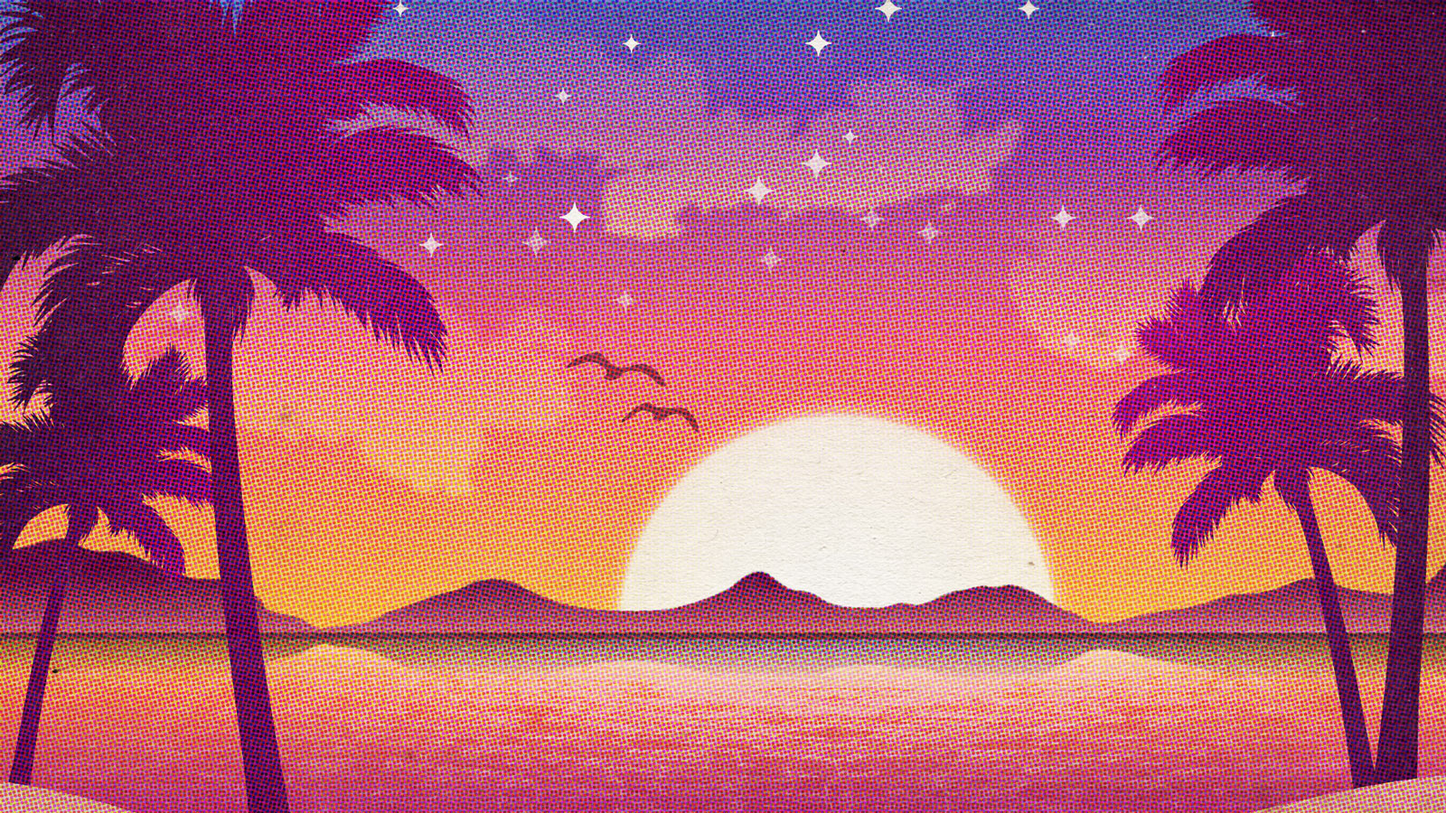
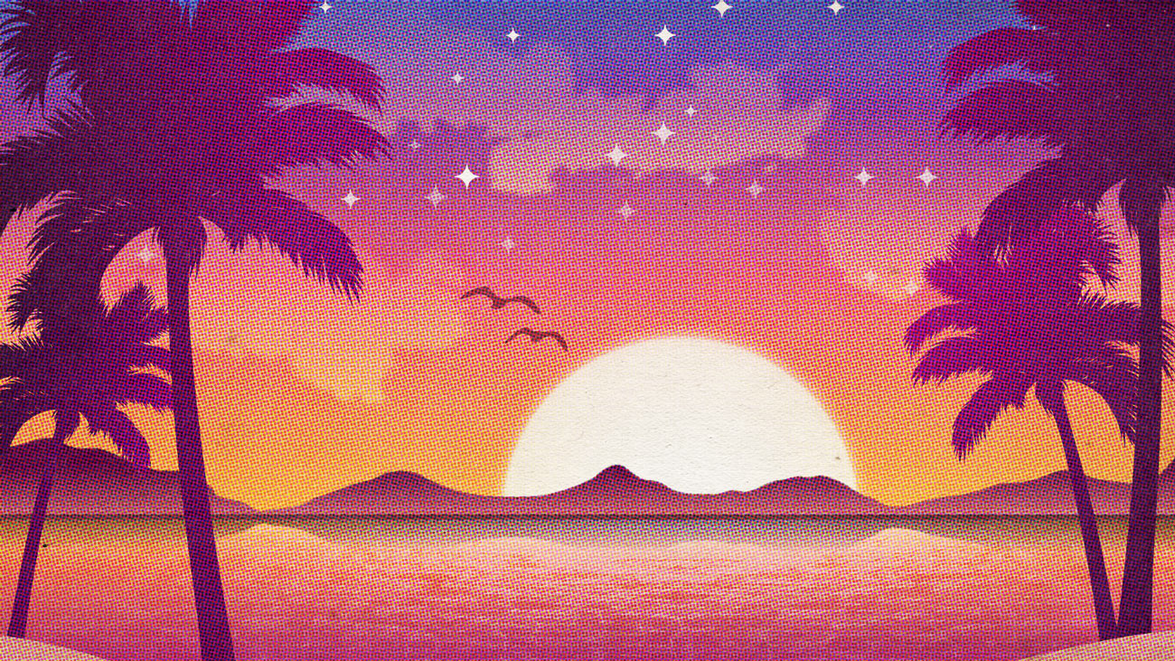
cleaned up desktop formatting plus ensmallened hero img

Changed region(s): [[0.0, 0.0, 1.0, 1.0]]

diff --git a/menu-test/basicstyle.css b/menu-test/basicstyle.css
@@ -160,7 +160,7 @@ body {
     background-image: url(./img/sunset_hero_bg.jpg);
     background-size: cover;
     background-attachment: fixed;
-    background-position: right;
+    background-position: bottom right;
 }
 .hero img {
     position: absolute;
@@ -455,15 +455,9 @@ section:has(.item-wrapper:hover) .item-wrapper:not(:hover) {
         height: var(--heroNavHeight);
     }
     .hero {
-        display: flex;
         justify-content: left;
         align-items: baseline;
         height: var(--heroNavHeight);
-        position: relative;
-        overflow: hidden;
-        background-image: url(./img/sunset_hero_bg.jpg);
-        background-size: cover;
-        background-attachment: fixed;
     }
     #slide-1 {
     height: auto;
